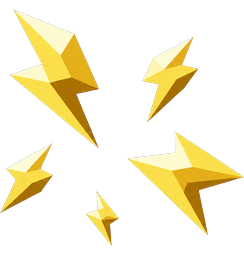
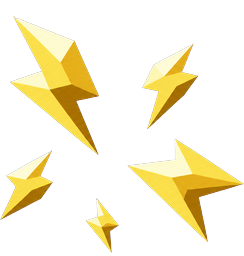
재작업본의 크기와 바닥 위치를 원본에 맞춘다 (#701)
* fix: crater_ember 와 lightning_rune 을 원본 크기로 되돌린다

재작업본이 캔버스 안에서 작게 그려져 있었다. crater_ember 는 내용이
33x39 로 원본 64x58 의 1.49배 작았고, lightning_rune 은 172x87 로
192x106 의 1.12배 작았다. prefab 이 sprite 크기로 화면 크기를 정하니
게임에서도 그만큼 작게 보인다.

생성을 다시 하지 않고 원본 bbox 에 맞춰 확대해 같은 캔버스에 중앙
정렬로 넣었다. 캔버스 크기와 .meta guid 는 그대로다.

* fix: 상태 effect 여섯 장을 원본 바닥 위치로 되돌린다

재작업본에 바닥 여백이 생겨 있었다. Burn 과 Wet 계열 prefab 은 Image
pivot 이 (0.5, 0) 이라 바닥이 대상의 기준점에 붙는데, 여백이 생기면
그만큼 위로 떠서 표시된다.

Wet 24->2, Wet2 35->2, Burn 14->0, Burn2 6, Shock2 10->3,
magic_fail 44->12 로 각자 원본 여백에 맞춰 세로 위치만 내렸다. 크기와
캔버스는 그대로다.

---------

diff --git a/.art/PRODUCTION-STATUS.md b/.art/PRODUCTION-STATUS.md
@@ -95,7 +95,7 @@
 | `Shock.png`, `Shock2.png` | 클라이언트 PR (이슈 #682) | 247x256 / 244x256 RGBA. 감전 표시, 다면체 번개 조각 다섯 개, 크기를 다르게 흩뿌리고 가운데를 비웠다. 이전 세 차례 시도는 개별 생성이라 프레임 2의 구도·크기가 10% 어긋나 실패했다. 이번은 한 이미지에 좌우 두 패널로 같은 배율·같은 기준선으로 나란히 생성한 뒤 반으로 잘라 각각 마무리했다 — 원본 패널(887x887) 기준 두 프레임의 alpha content bbox 크기 차이 2.0%/2.4%, 위치 차이 16~17px(패널 대비 약 2%). magenta 키 제거, 네 모서리 alpha 0, 불투명 픽셀에 magenta 잔색 0 |
 | `Wet.png`, `Wet2.png` | 클라이언트 PR (이슈 #682) | 245x256 / 225x256 RGBA. 젖음 표시, 다면체 물 튀김 덩어리 세 개와 물방울 두 개. Shock 과 같은 좌우 쌍둥이 패널 생성으로 처음부터 시도해 한 번에 통과했다 — 원본 패널(887x887) 기준 두 프레임의 alpha content bbox 크기 차이 1.6%/1.3%, 위치 차이 0~3px. magenta 키 제거, 네 모서리 alpha 0, 불투명 픽셀에 magenta 잔색 0 |
 | `rune/fire_rune.png` | 클라이언트 PR (이슈 #683) | 192x109 RGBA, 원본 크기 유지. 어두운 숯색 돌 원반 + Hellfire 팔레트 불꽃 문양. magenta 키 제거, 네 모서리 alpha 0, 64px 실루엣 검수 완료 |
-| `rune/lightning_rune.png` | 클라이언트 PR (이슈 #683) | 192x106 RGBA, 원본 크기 유지. 어두운 숯색 돌 원반 + 금색 번개 문양. 기존 파란 계열에서 STYLE.md 의 금색 Lightning 팔레트로 이동. magenta 키 제거, 네 모서리 alpha 0, 64px 실루엣 검수 완료 |
+| `rune/lightning_rune.png` (크기 교정) | 클라이언트 PR (이슈 #683) | 192x106 RGBA, 원본 크기 유지. 어두운 숯색 돌 원반 + 금색 번개 문양. 기존 파란 계열에서 STYLE.md 의 금색 Lightning 팔레트로 이동. magenta 키 제거, 네 모서리 alpha 0, 64px 실루엣 검수 완료 |
 | `rune/nature_rune.png` | 클라이언트 PR (이슈 #683) | 192x105 RGBA, 원본 크기 유지. 어두운 숯색 돌 원반 + Nature 팔레트 잎 문양. magenta 키 제거, 네 모서리 alpha 0, 64px 실루엣 검수 완료 |
 | `rune/rock_rune.png` | 클라이언트 PR (이슈 #683) | 192x98 RGBA, 원본 크기 유지. 이끼바위 골렘의 따뜻한 황갈+이끼 팔레트 바위 문양. 1차 생성이 베이지 원반에 원반과 명도가 비슷한 문양으로 나와 세트에서만 튀어 반려, 어두운 숯색 원반(나머지 다섯과 동일) + 황갈+이끼 고리 + 밝게 읽히는 문양으로 재생성해 통과시켰다. magenta 키 제거, 네 모서리 alpha 0, 64px 실루엣 검수 완료 |
 | `rune/water_rune.png` | 클라이언트 PR (이슈 #683) | 192x105 RGBA, 원본 크기 유지. 어두운 숯색 돌 원반 + Water 팔레트 물방울 문양. magenta 키 제거, 네 모서리 alpha 0, 64px 실루엣 검수 완료 |
